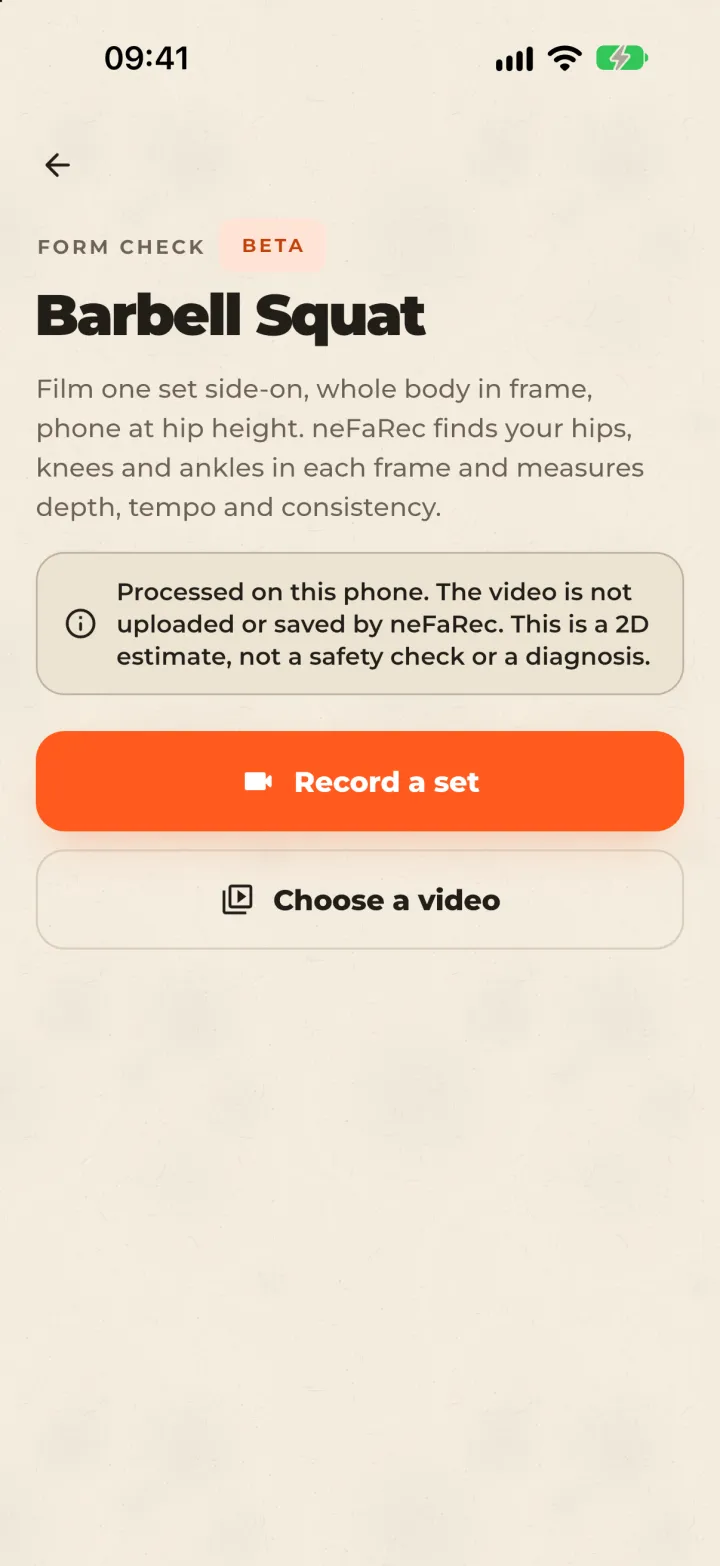
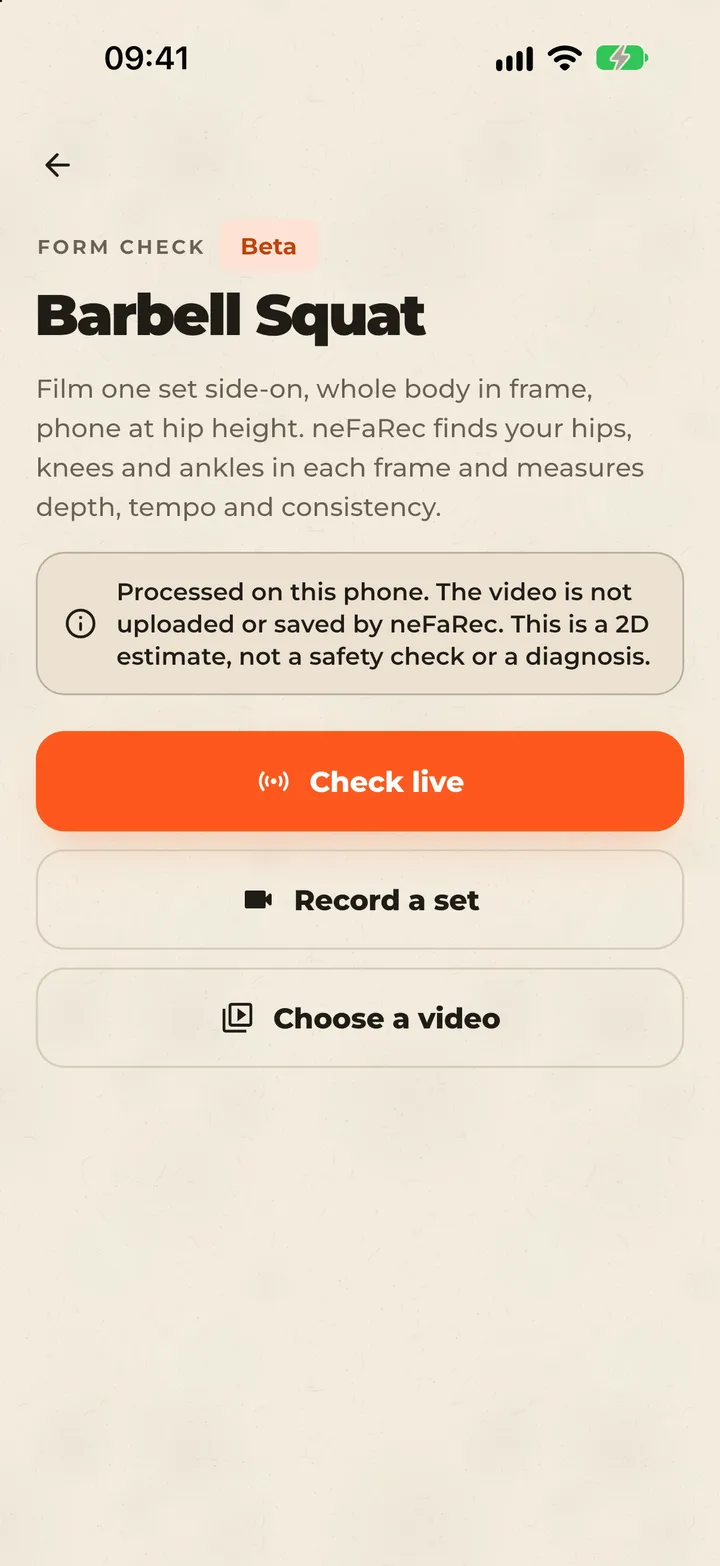
Show neFaRec's live form check and Android APK

diff --git a/index.html b/index.html
@@ -401,9 +401,9 @@
                     </button>
                     <div class="featured-project-content">
                         <div class="project-header"><h3>neFaRec</h3><span class="project-duration">Nov 2026</span></div>
-                        <p class="project-description">A workout tracker that starts from the routine you already have. Paste it from a note or a chat, check what was read, then train it with a set table, rest and hold timers, and a Live Activity on the lock screen.</p>
-                        <div class="tech-stack"><span class="tech-badge">Flutter</span><span class="tech-badge">Dart</span><span class="tech-badge">Drift</span><span class="tech-badge">Live Activities</span><span class="tech-badge">Vision</span><span class="tech-badge">Node.js</span><span class="tech-badge">PostgreSQL</span></div>
-                        <div class="project-actions"><button type="button" class="project-link" data-bs-toggle="modal" data-bs-target="#nefarecModal">Read case study <i class="fas fa-arrow-right" aria-hidden="true"></i></button><a class="project-link" href="https://github.com/mofixiu/neFaRecmobile" target="_blank" rel="noopener noreferrer">Mobile <i class="fab fa-github" aria-hidden="true"></i></a><a class="project-link" href="https://github.com/mofixiu/neFaRecbackend" target="_blank" rel="noopener noreferrer">Backend <i class="fab fa-github" aria-hidden="true"></i></a><a class="project-link" href="https://pub.dev/packages/workout_parser" target="_blank" rel="noopener noreferrer">Parser on pub.dev <i class="fas fa-box-open" aria-hidden="true"></i></a></div>
+                        <p class="project-description">A workout app for messy routines. Paste yours from a note or a chat, train it with a set table, rest timers and a Live Activity, and check your form live with the camera. On iPhone and Android.</p>
+                        <div class="tech-stack"><span class="tech-badge">Flutter</span><span class="tech-badge">Dart</span><span class="tech-badge">Drift</span><span class="tech-badge">Live Activities</span><span class="tech-badge">Vision</span><span class="tech-badge">ML Kit</span><span class="tech-badge">Node.js</span><span class="tech-badge">PostgreSQL</span></div>
+                        <div class="project-actions"><button type="button" class="project-link" data-bs-toggle="modal" data-bs-target="#nefarecModal">Read case study <i class="fas fa-arrow-right" aria-hidden="true"></i></button><a class="project-link" href="https://github.com/mofixiu/neFaRecmobile/releases/latest" target="_blank" rel="noopener noreferrer">Android APK <i class="fab fa-android" aria-hidden="true"></i></a><a class="project-link" href="https://github.com/mofixiu/neFaRecmobile" target="_blank" rel="noopener noreferrer">Mobile <i class="fab fa-github" aria-hidden="true"></i></a><a class="project-link" href="https://pub.dev/packages/workout_parser" target="_blank" rel="noopener noreferrer">Parser on pub.dev <i class="fas fa-box-open" aria-hidden="true"></i></a></div>
                     </div>
                 </article>
 
@@ -798,19 +798,23 @@
                             <div class="col-md-7">
                                 <div class="project-info">
                                     <h6>Project Overview</h6>
-                                    <p>Most people already have a routine, written in a note, a WhatsApp message or an AI chat. neFaRec starts there. You paste the text, check what it read on a review screen, and train it with a set table that remembers last time’s numbers. Everything is stored on the phone and works offline. An optional account backs it up to a small Node server.</p>
+                                    <p>Most people already have a routine, written in a note, a WhatsApp message or an AI chat. neFaRec starts there. You paste the text or a screenshot, check what it read on a review screen, and train it with a set table that remembers last time’s numbers. Then you can point the camera at yourself and it counts and checks your reps as you go. It runs on iPhone and Android, keeps everything on the phone and works offline. An optional account backs it up to a small Node server.</p>
 
                                     <h6>Key Features</h6>
                                     <ul>
-                                        <li>Paste a routine as plain text; the parser reads sets, rep ranges, timed holds and rest, and highlights anything it filled in.</li>
+                                        <li>Paste a routine, or pick a screenshot, photo or PDF and the phone reads the text. The parser finds sets, rep ranges, timed holds and rest, and highlights anything it filled in.</li>
                                         <li>Track sets against last session’s numbers, with a rest scoreboard that counts into overtime and a hold timer for planks and wall sits.</li>
                                         <li>Follow the rest timer on the lock screen and in the Dynamic Island with a Live Activity.</li>
                                         <li>Review sessions as receipts, with weekly volume, muscle split and lift trend charts and a training calendar.</li>
-                                        <li>Browse 884 exercises with steps, photos and 42 looping demo videos, swap moves for your equipment, and try an on-device squat form check.</li>
+                                        <li>Browse 884 exercises with steps, photos and 42 looping demo videos, and swap moves for the equipment you have.</li>
+                                        <li>Check your form live with the camera, or from a filmed set, for squats, push-ups, deadlifts, lunges, overhead presses and curls.</li>
                                     </ul>
 
+                                    <h6>Live form check</h6>
+                                    <p>The form check tracks your joints in every camera frame, with Apple Vision on iPhone and ML Kit pose detection on Android, behind one platform channel. It counts reps and checks what matters for each lift: depth for squats, lunges and push-ups, body line for push-ups, hinge and lockout for deadlifts, lockout and lean for presses, and range and swing for curls. The numbers update about twice a second while you move, and it tells you when the view isn’t clear enough to judge. Nothing is uploaded.</p>
+
                                     <h6>Open source</h6>
-                                    <p>I published the routine parser as <a href="https://pub.dev/packages/workout_parser" target="_blank" rel="noopener noreferrer">workout_parser</a> on pub.dev, a pure Dart package any Flutter or Dart app can use. It reads days, sets, reps, holds, rest, weight, tempo and supersets, matches names against 884 exercises, and marks every value it filled in. It reads all 39 test routines with every checked field right, and a typical routine parses in about 10 ms. You can <a href="https://workoutparse.mofiyinebo.com" target="_blank" rel="noopener noreferrer">try it in your browser</a>: paste a routine and see what it reads.</p>
+                                    <p>I published the routine parser as <a href="https://pub.dev/packages/workout_parser" target="_blank" rel="noopener noreferrer">workout_parser</a> on pub.dev, a pure Dart package any Flutter or Dart app can use. It reads days, sets, reps, holds, rest, weight, tempo and supersets, matches names against 884 exercises, and marks every value it filled in. It reads all 39 test routines with every checked field right, and a typical routine parses in about 10 ms. You can <a href="https://workoutparse.mofiyinebo.com" target="_blank" rel="noopener noreferrer">try it in your browser</a>: paste a routine and see what it reads. The app’s look comes from <a href="https://pub.dev/packages/paper_kit" target="_blank" rel="noopener noreferrer">paper_kit</a>, my handmade-paper UI kit, also on pub.dev.</p>
 
                                     <h6>Technologies</h6>
                                     <div class="tech-stack">
@@ -820,6 +824,8 @@
                                         <span class="tech-badge">Drift (SQLite)</span>
                                         <span class="tech-badge">SwiftUI Live Activities</span>
                                         <span class="tech-badge">Apple Vision</span>
+                                        <span class="tech-badge">ML Kit</span>
+                                        <span class="tech-badge">Kotlin</span>
                                         <span class="tech-badge">Node.js</span>
                                         <span class="tech-badge">Express</span>
                                         <span class="tech-badge">PostgreSQL</span>
@@ -832,6 +838,7 @@
                                     </div>
 
                                     <div class="project-actions">
+                                        <a class="project-link" href="https://github.com/mofixiu/neFaRecmobile/releases/latest" target="_blank" rel="noopener noreferrer">Android APK and demo <i class="fab fa-android" aria-hidden="true"></i></a>
                                         <a class="project-link" href="https://github.com/mofixiu/neFaRecmobile" target="_blank" rel="noopener noreferrer">Mobile repository <i class="fab fa-github" aria-hidden="true"></i></a>
                                         <a class="project-link" href="https://github.com/mofixiu/neFaRecbackend" target="_blank" rel="noopener noreferrer">Backend repository <i class="fab fa-github" aria-hidden="true"></i></a>
                                         <a class="project-link" href="https://pub.dev/packages/workout_parser" target="_blank" rel="noopener noreferrer">workout_parser on pub.dev <i class="fas fa-box-open" aria-hidden="true"></i></a>

diff --git a/js/app-prototypes.js b/js/app-prototypes.js
@@ -322,7 +322,7 @@
             },
             '29-account-profile': { label: 'Profile', back: '28-settings', hotspots: [nefaBack] }
         },
-        demo: ['resume', 'options', 'how-to', 'close', 'close-options', 'tick', 'wait', 'next-set', 'skip', 'stop', 'done', 'progress', 'calendar', 'tab-library', 'exercise'],
+        demo: ['resume', 'options', 'form-check', 'back', 'how-to', 'close', 'close-options', 'tick', 'wait', 'next-set', 'skip', 'stop', 'done', 'progress', 'calendar', 'tab-library', 'exercise'],
         preview: ['01-today', '09b-workout-video', '14-rest-overtime', '19-history-progress']
     };
 
